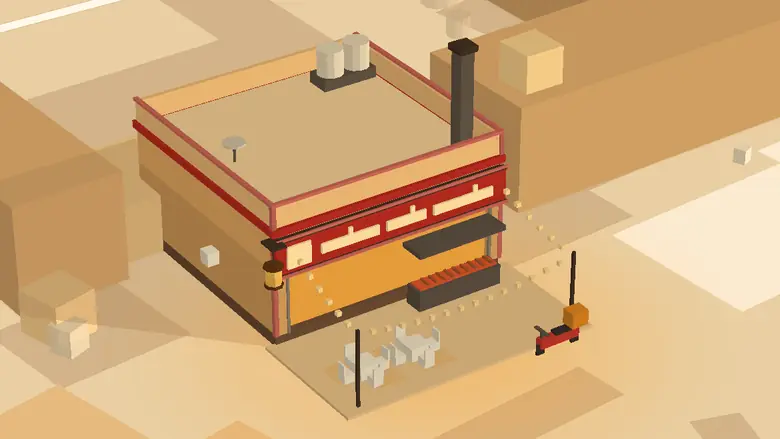
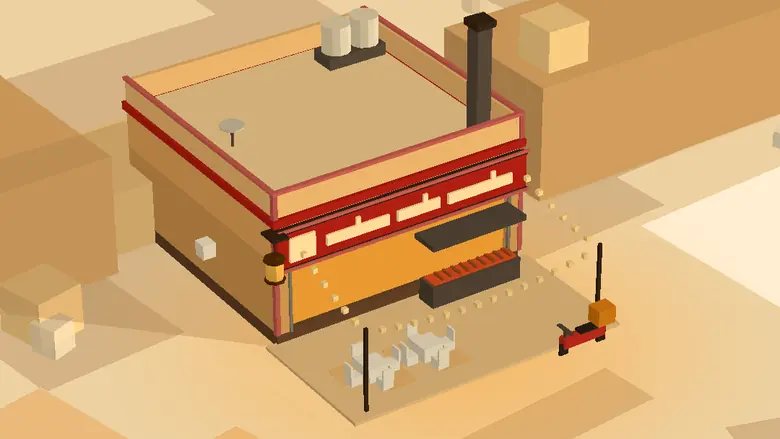
Home map box: closer picture, live count, saffron arrow, settles once
From the roast of look A (24/40):
- The picture is pushed in about 20 % on the shop front, counter and tables.
- The chip shows the food tile's live fact («8 فاتحين هسة», «يفتحون الصبح»
  when all are closed) instead of repeating the title.
- The line is one line: «دوس على أي مطعم وشوفه من قريب».
- The panel wears the food card's Soft Tint, and the arrow is the one saffron
  circle at this end of the page, so the box reads as the feature rather
  than another «كل المحلات».
- The first time most of the box is on screen the picture settles from
  1.06 to 1 over 0.9 s, once, like the map camera landing. It stays still
  under reduce motion and is transform only.

Claude-Session: https://claude.ai/code/session_01HGLmZJaW9KNNeEBfPaE7wu

diff --git a/apps/customer/src/features/home/MapBox.tsx b/apps/customer/src/features/home/MapBox.tsx
@@ -1,7 +1,8 @@
 import { router } from 'expo-router';
-import { Pressable, View, type ImageSourcePropType } from 'react-native';
-import Animated, { useAnimatedStyle, useSharedValue, withSpring } from 'react-native-reanimated';
-import { Icon, LocalPhoto, Text, useTheme, withAlpha } from '@driver/ui';
+import { useState } from 'react';
+import { Pressable, useWindowDimensions, View, type ImageSourcePropType } from 'react-native';
+import Animated, { Easing, runOnJS, useAnimatedReaction, useAnimatedStyle, useSharedValue, withSpring, withTiming, type SharedValue } from 'react-native-reanimated';
+import { CornerFill, Icon, LocalPhoto, Text, useTheme, withAlpha } from '@driver/ui';
 import { useT } from '@/lib/i18n';
 
 /**
@@ -17,25 +18,50 @@ const PICTURES: Record<'day' | 'night', ImageSourcePropType> = {
 /** The picture shows the town after dark from 18:00 to 06:00 (Aziziyah's sunset is 17:00–19:30 over the year). */
 export const mapBoxNight = (hour: number) => hour >= 18 || hour < 6;
 
+/** The picture starts this much closer and settles back, once, like the map's camera landing. */
+const SETTLE_FROM = 1.06;
+const SETTLE_MS = 900;
+
 /**
  * «مطاعم العزيزية على الخريطة» (Ali 2026-10-10, look A "window": "a more prominent feature with its own
  * box"): the way into the restaurant map, under the kitchens. A still of a real shop on the 3D map
- * (golden by day, its lights and lantern at night) over a cream line with the round ink arrow of
- * «كل المحلات». It sinks a little under the finger, like the boxes above. The picture loads only as the
- * box nears the screen.
+ * (golden by day, its lights and lantern at night) with the live «8 فاتحين هسة» on it, over a Soft Tint
+ * line in the food card's colours and the one saffron arrow at this end of the page. The first time most
+ * of it is on screen the picture settles back from a little closer, once (not under reduce motion); it
+ * sinks a little under the finger, like «كل المحلات». The picture loads only as the box nears the screen.
  */
-export function MapBox({ night }: { night: boolean }) {
+export function MapBox({ night, fact, scrollY }: { night: boolean; fact: string; scrollY: SharedValue<number> }) {
   const theme = useTheme();
   const t = useT();
   const card = theme.services.food.card;
+  const { height: screenH } = useWindowDimensions();
   const p = useSharedValue(0);
   const sink = useAnimatedStyle(() => ({ transform: [{ scale: 1 - 0.02 * p.value }] }));
+
+  // Settle once: the picture comes in a touch close and eases back when the box is first mostly in view.
+  const [box, setBox] = useState<{ y: number; h: number } | null>(null);
+  const zoom = useSharedValue(theme.reduceMotion ? 1 : SETTLE_FROM);
+  const settled = useSharedValue(theme.reduceMotion);
+  const settle = () => {
+    zoom.value = withTiming(1, { duration: SETTLE_MS, easing: Easing.out(Easing.cubic) });
+  };
+  useAnimatedReaction(
+    () => (box == null || settled.value ? false : scrollY.value + screenH > box.y + box.h * 0.7),
+    (seen) => {
+      if (!seen) return;
+      settled.value = true;
+      runOnJS(settle)();
+    },
+    [box, screenH],
+  );
+  const drift = useAnimatedStyle(() => ({ transform: [{ scale: zoom.value }] }));
+
   return (
-    <Animated.View style={sink}>
+    <Animated.View style={sink} onLayout={(e) => setBox({ y: e.nativeEvent.layout.y, h: e.nativeEvent.layout.height })}>
       <Pressable
         testID="home-map-box"
         accessibilityRole="button"
-        accessibilityLabel={t('home.map_box_title')}
+        accessibilityLabel={`${t('home.map_box_title')}، ${fact}`}
         accessibilityHint={t('home.map_box_line')}
         onPress={() => {
           theme.haptic('selection');
@@ -47,10 +73,13 @@ export function MapBox({ night }: { night: boolean }) {
         onPressOut={() => {
           p.value = withSpring(0, theme.motion.spring.select);
         }}
-        style={{ borderRadius: theme.radius.xl, overflow: 'hidden', backgroundColor: theme.colors.surface, borderWidth: 1, borderColor: withAlpha(card.on, 0.08) }}
+        style={{ borderRadius: theme.radius.xl, overflow: 'hidden', backgroundColor: card.bg, borderWidth: 1, borderColor: withAlpha(card.on, 0.07) }}
       >
-        <View style={{ width: '100%', aspectRatio: 16 / 9, backgroundColor: theme.colors.surfaceSunken }}>
-          <LocalPhoto testID="home-map-box-picture" source={night ? PICTURES.night : PICTURES.day} style={{ width: '100%', height: '100%' }} />
+        <View style={{ width: '100%', aspectRatio: 16 / 9, overflow: 'hidden', backgroundColor: theme.colors.surfaceSunken }}>
+          <Animated.View style={[{ width: '100%', height: '100%' }, drift]}>
+            <LocalPhoto testID="home-map-box-picture" source={night ? PICTURES.night : PICTURES.day} style={{ width: '100%', height: '100%' }} />
+          </Animated.View>
+          {/* What the map holds right now: the food tile's live fact, with its dot. */}
           <View
             style={{
               position: 'absolute',
@@ -58,20 +87,21 @@ export function MapBox({ night }: { night: boolean }) {
               start: theme.space[3],
               flexDirection: 'row',
               alignItems: 'center',
-              gap: 6,
+              gap: theme.space[2],
               minHeight: 30,
               paddingHorizontal: theme.space[3],
               borderRadius: theme.radius.pill,
               backgroundColor: withAlpha(theme.colors.surface, 0.94),
             }}
           >
-            <Icon name="map-pin" size={15} color={card.dot} strokeWidth={2.4} />
-            <Text variant="caption" weight={700} color={card.on}>
-              {t('restaurant_map.open_map')}
+            <View style={{ width: 8, height: 8, borderRadius: 4, backgroundColor: card.dot }} />
+            <Text variant="caption" weight={700} color={card.on} tabular>
+              {fact}
             </Text>
           </View>
         </View>
-        <View style={{ flexDirection: 'row', alignItems: 'center', gap: theme.space[3], paddingVertical: theme.space[3], paddingStart: theme.space[4], paddingEnd: theme.space[3] }}>
+        <View style={{ flexDirection: 'row', alignItems: 'center', gap: theme.space[3], paddingVertical: theme.space[4], paddingStart: theme.space[5], paddingEnd: theme.space[4] }}>
+          {card.top ? <CornerFill base={card.bg} light={card.top} /> : null}
           <View style={{ flex: 1, minWidth: 0 }}>
             <Text variant="title" face="display" color={card.on} numberOfLines={2}>
               {t('home.map_box_title')}
@@ -80,8 +110,8 @@ export function MapBox({ night }: { night: boolean }) {
               {t('home.map_box_line')}
             </Text>
           </View>
-          <View style={{ width: 40, height: 40, borderRadius: 20, alignItems: 'center', justifyContent: 'center', backgroundColor: card.on }}>
-            <Icon name="chevron-forward" size={20} color={theme.colors.surface} strokeWidth={2.25} />
+          <View style={{ width: 44, height: 44, borderRadius: 22, alignItems: 'center', justifyContent: 'center', backgroundColor: theme.colors.accent }}>
+            <Icon name="chevron-forward" size={22} color={theme.colors.onAccent} strokeWidth={2.4} />
           </View>
         </View>
       </Pressable>

diff --git a/apps/customer/app/(tabs)/index.tsx b/apps/customer/app/(tabs)/index.tsx
@@ -297,7 +297,9 @@ export default function Home() {
 
         {/* The restaurant map in its own box (Ali's idea, 2026-10-09/10), where the map is set up (web for
             now; the phones get it with the native map) and there are kitchens to show on it. */}
-        {GOLDEN_MAP && list && list.length > 0 ? <MapBox night={mapBoxNight(dp.hour)} /> : null}
+        {GOLDEN_MAP && list && list.length > 0 ? (
+          <MapBox night={mapBoxNight(dp.hour)} fact={open.length > 0 ? t('home.food_open', { n: open.length }) : t('home.rail_opening')} scrollY={scrollY} />
+        ) : null}
 
         {/* No promotions resolve yet (the API's NoPromotions): the deals rail appears once one does. */}
         {list?.some((r) => !!r.deal) ? (
